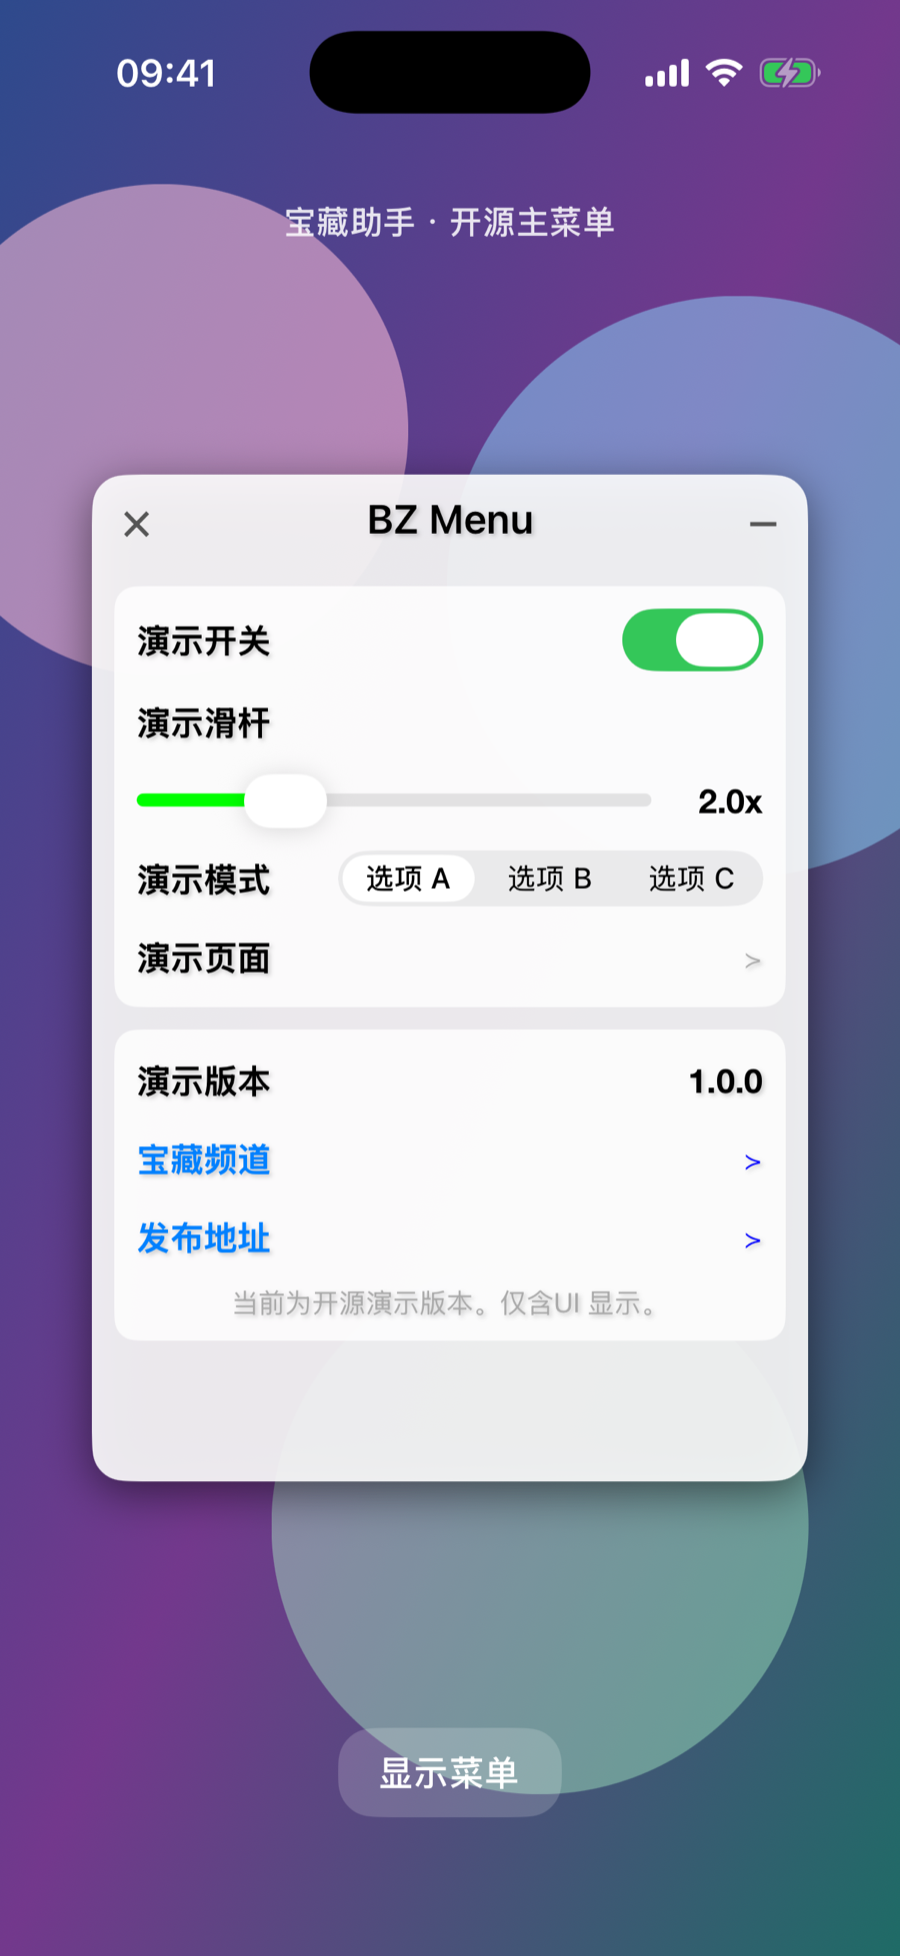
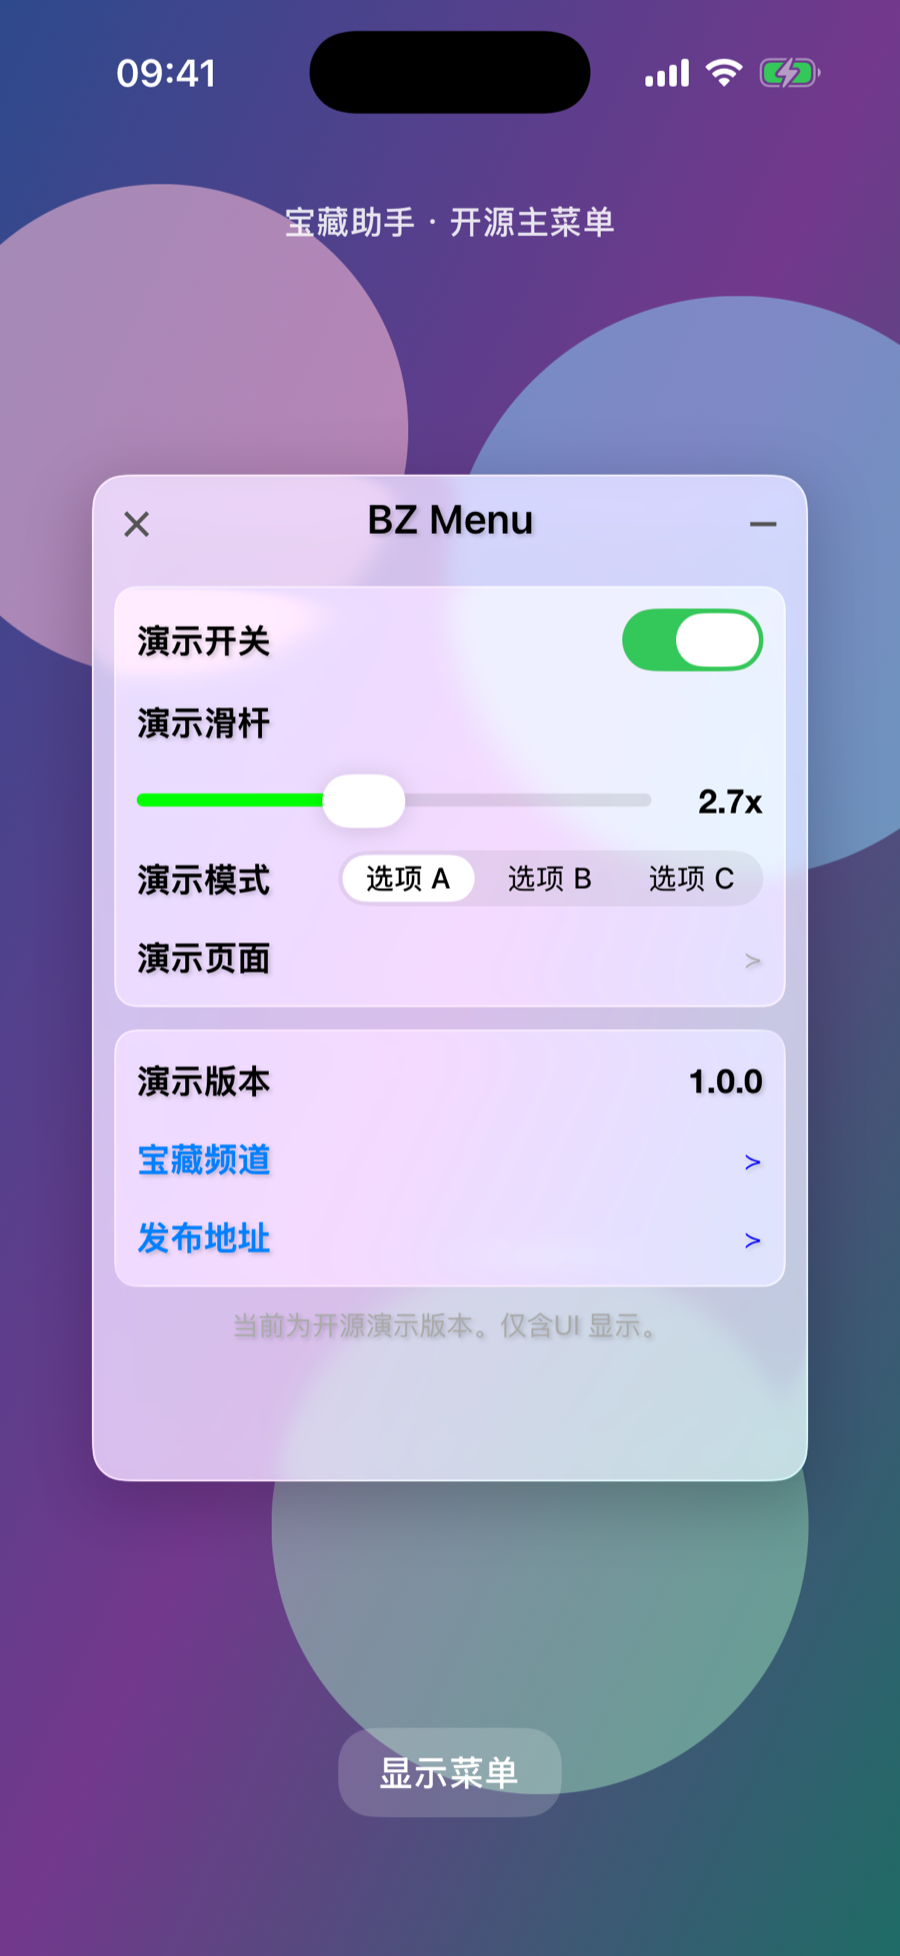
Move the demo note below the info card.

diff --git a/Sources/BZMenuKit/BZMenuPanel.m b/Sources/BZMenuKit/BZMenuPanel.m
@@ -168,6 +168,20 @@
         y = CGRectGetMaxY(sectionView.frame) + BZMenuPadding;
     }
     self.sectionViews = [sectionViews copy];
+    if (self.configuration.footerNote.length > 0) {
+        UILabel *footer = [[UILabel alloc] init];
+        footer.text = self.configuration.footerNote;
+        footer.font = [BZMenuAppearance noteFont];
+        footer.textColor = UIColor.lightGrayColor;
+        footer.textAlignment = NSTextAlignmentCenter;
+        footer.numberOfLines = 0;
+        [BZMenuAppearance applyTextShadowToLabel:footer];
+        CGFloat footerWidth = BZMenuPanelWidth - BZMenuPadding * 2.0;
+        CGSize size = [footer sizeThatFits:CGSizeMake(footerWidth, CGFLOAT_MAX)];
+        footer.frame = CGRectMake(BZMenuPadding, y, footerWidth, ceil(size.height));
+        [self.contentView addSubview:footer];
+        y = CGRectGetMaxY(footer.frame) + BZMenuPadding;
+    }
     self.contentView.frame = CGRectMake(0, 0, BZMenuPanelWidth, y + BZMenuPadding);
     self.scrollView.contentSize = self.contentView.frame.size;
 }

diff --git a/Demo/BZHelperMenuCatalog.m b/Demo/BZHelperMenuCatalog.m
@@ -42,11 +42,10 @@ static float BZDemoFloat(NSString *name, float fallback) {
     release.usesAccentColor = YES;
     release.urlString = @"https://github.com/iosrxwy/bzhelper";
 
-    BZMenuItem *note = [BZMenuItem noteItem:@"note" text:@"当前为开源演示版本。仅含UI 显示。"];
-
     BZMenuConfiguration *config = [[BZMenuConfiguration alloc] init];
     config.title = @"BZ Menu";
     config.versionText = @"1.0.0";
+    config.footerNote = @"当前为开源演示版本。仅含UI 显示。";
     config.theme = BZMenuThemeStyleGlass;
     config.themePersistenceKey = @"bz_menu_theme";
     config.sections = @[
@@ -62,8 +61,7 @@ static float BZDemoFloat(NSString *name, float fallback) {
         [BZMenuSection infoSectionWithItems:@[
             version,
             channel,
-            release,
-            note
+            release
         ]]
     ];
     return config;

diff --git a/Sources/BZMenuKit/BZMenuRowView.m b/Sources/BZMenuKit/BZMenuRowView.m
@@ -146,6 +146,7 @@
 }
 
 - (CGSize)fittedSwitchSize {
+    self.toggle.transform = CGAffineTransformIdentity;
     [self.toggle sizeToFit];
     CGSize size = self.toggle.bounds.size;
     if (size.width < 1.0 || size.height < 1.0) {
@@ -162,7 +163,7 @@
         return BZMenuRowHeight * 2.0 + BZMenuPadding;
     }
     if (self.item.type == BZMenuItemTypeSwitch) {
-        return MAX(BZMenuRowHeight, [self fittedSwitchSize].height);
+        return MAX(BZMenuRowHeight, ceil([self fittedSwitchSize].height));
     }
     if (self.item.type == BZMenuItemTypeNote) {
         CGSize size = [self.item.noteText boundingRectWithSize:CGSizeMake(width, CGFLOAT_MAX)

diff --git a/Sources/BZMenuKit/include/BZMenuConfiguration.h b/Sources/BZMenuKit/include/BZMenuConfiguration.h
@@ -8,6 +8,7 @@ NS_ASSUME_NONNULL_BEGIN
 
 @property (nonatomic, copy) NSString *title;
 @property (nonatomic, copy, nullable) NSString *versionText;
+@property (nonatomic, copy, nullable) NSString *footerNote;
 @property (nonatomic, assign) BZMenuThemeStyle theme;
 @property (nonatomic, copy) NSArray<BZMenuSection *> *sections;
 @property (nonatomic, copy, nullable) NSString *themePersistenceKey;

diff --git a/Sources/BZMenuKit/BZMenuConfiguration.m b/Sources/BZMenuKit/BZMenuConfiguration.m
@@ -18,6 +18,7 @@
     BZMenuConfiguration *copy = [[[self class] allocWithZone:zone] init];
     copy.title = self.title;
     copy.versionText = self.versionText;
+    copy.footerNote = self.footerNote;
     copy.theme = self.theme;
     copy.sections = self.sections;
     copy.themePersistenceKey = self.themePersistenceKey;
